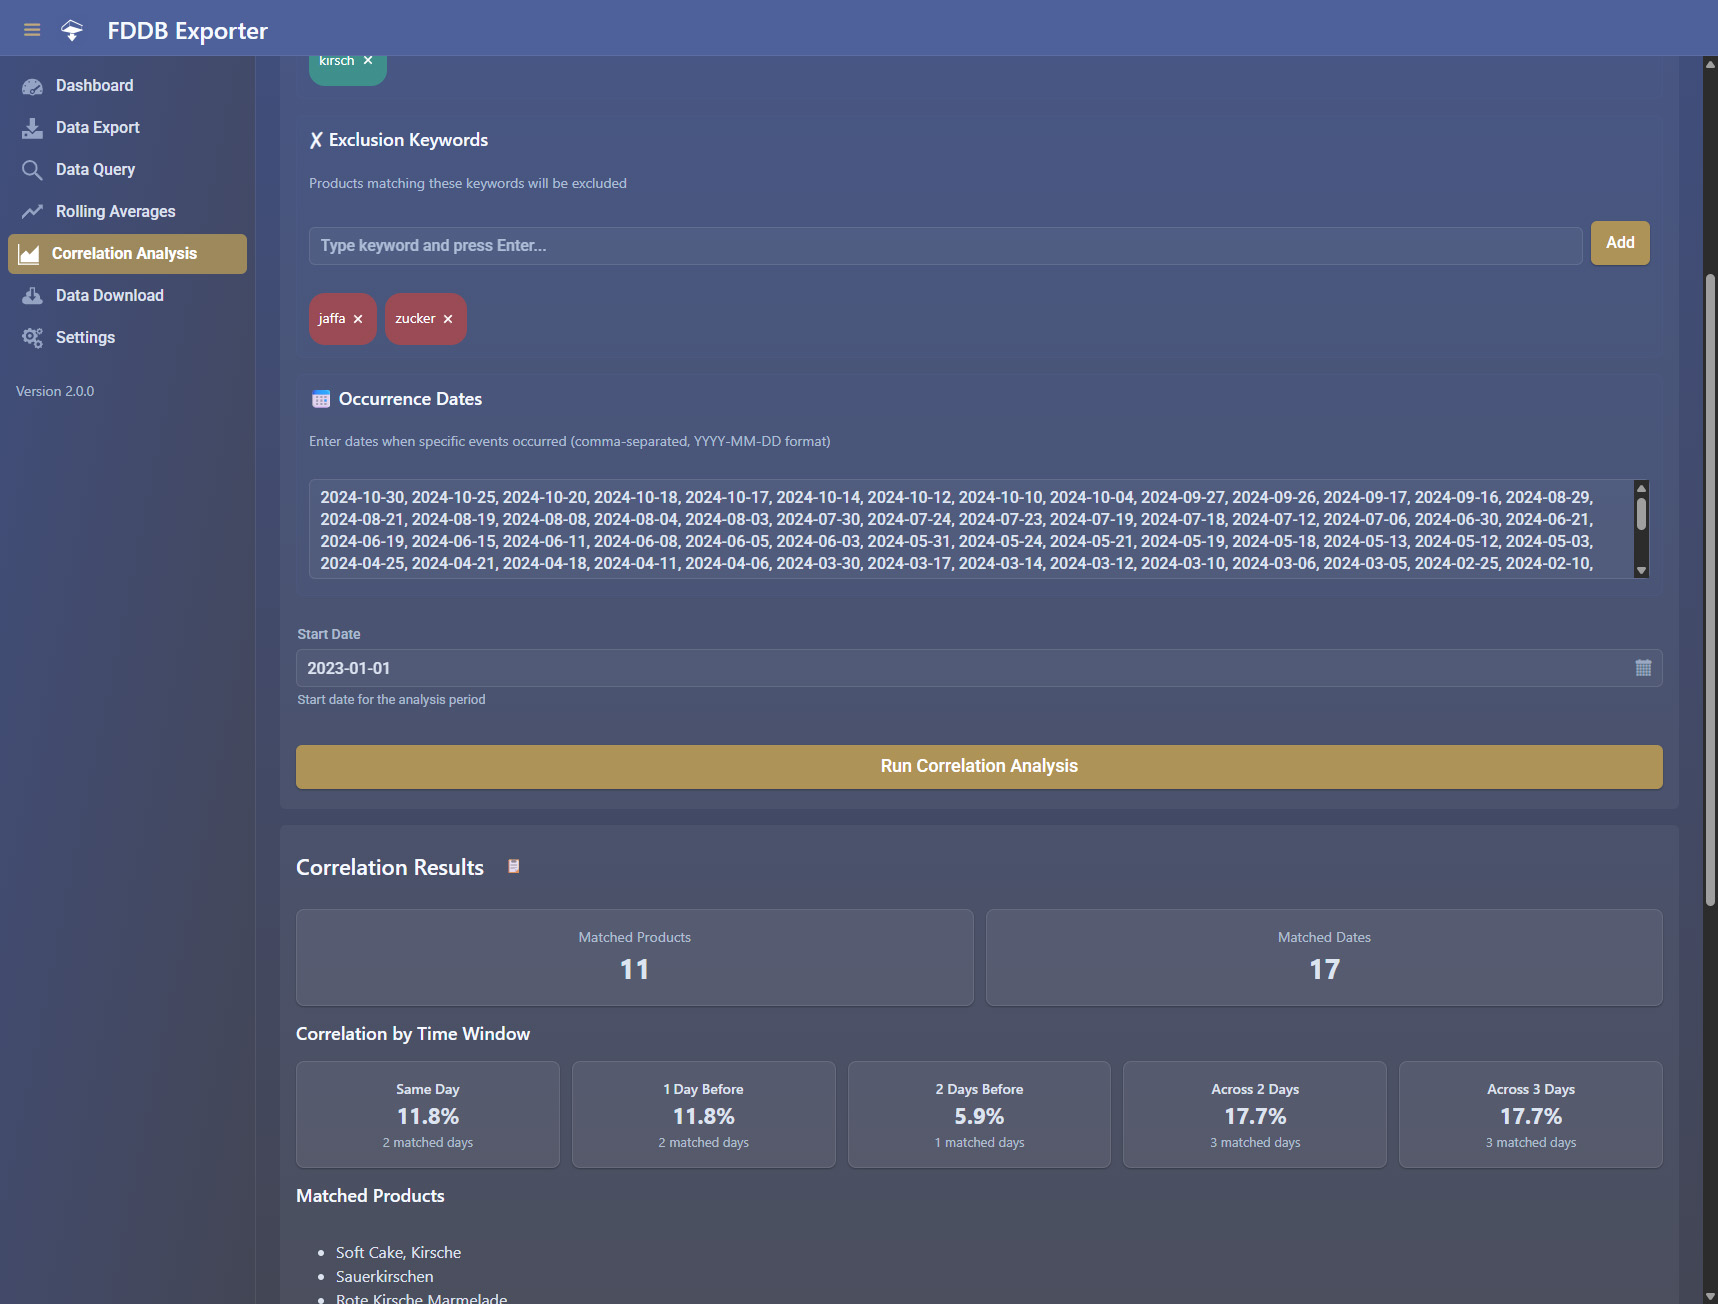
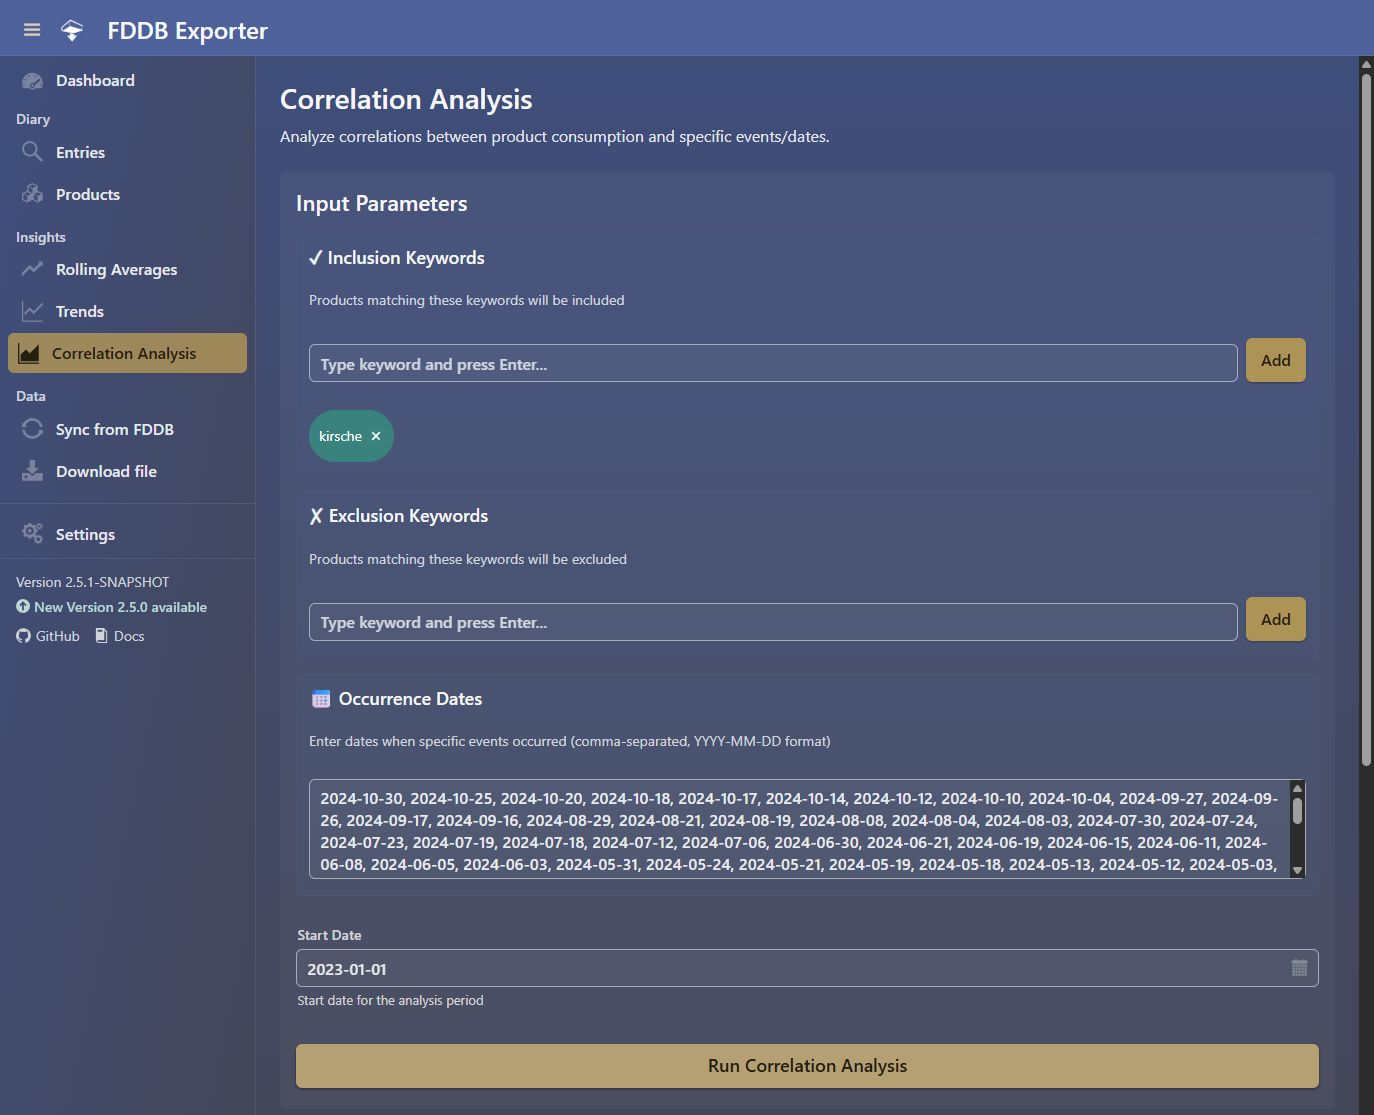
docs(ui): update screenshots to reflect changes in version 2.5.1-SNAPSHOT

diff --git a/docs/visualization/web-ui.md b/docs/visualization/web-ui.md
@@ -36,8 +36,7 @@ desktop and mobile versions provide the same features and functionality - the di
 adaptations for optimal display on different screen sizes.
 
 ::: info
-The screenshots below were taken with version 2.1.0 and do not show features added since then — for example the
-[Trends](#trends) view introduced in 2.3.0. The current UI may differ in details.
+The screenshots below were captured from version 2.5.1-SNAPSHOT on October 15, 2026.
 :::
 
 ### Desktop Views
